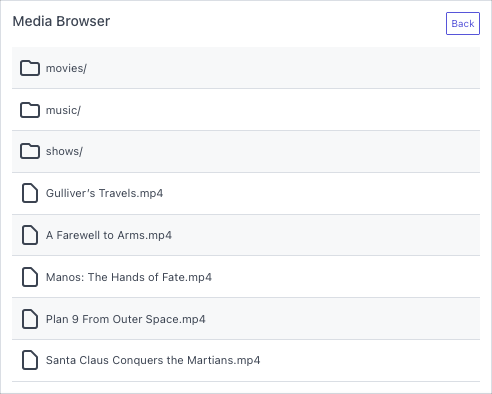
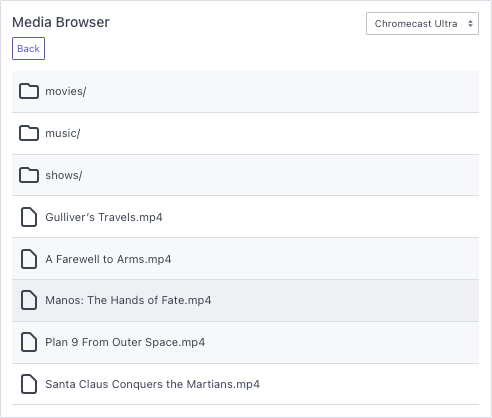
Update README.md

diff --git a/media-browser-card.js b/media-browser-card.js
@@ -201,9 +201,6 @@ class MediaBrowserCard extends LitElement {
   }
 
   setConfig(config) {
-    if (!config.player) {
-      throw new Error("You need to define a media player entity");
-    }
     this.config = config;
   }
 

diff --git a/README.md b/README.md
@@ -4,10 +4,10 @@ A custom media browser card for the Home Assistant Lovelace UI. The card provide
 
 **Features**
 - Browse media folders
-- Play media files on the configured media player
+- Play media files on the selected media player, or in a browser tab
 - Shows currently playing media item
-- Remembers current directory between reloads
-- Remembers with items have been played
+- Shows which items have already been played
+- Keeps current directory between reloads
 
 **Screenshot**
 
@@ -22,6 +22,4 @@ The instructions follow the basic steps that are described by the [Lovelace: Cus
 3. Edit the Lovelace Dashboard where you want to use the card. Add a new manual / custom card, and use the following YAML configuration:
     ```
     type: custom:media-browser-card
-    player: <media-player-entity-id>
     ```
-   Replace `<media-player-entity-id>` with a valid entity ID of a media player. For example, if you have a Chromecast, you might have an entity `mediaplayer.chromecast`.
